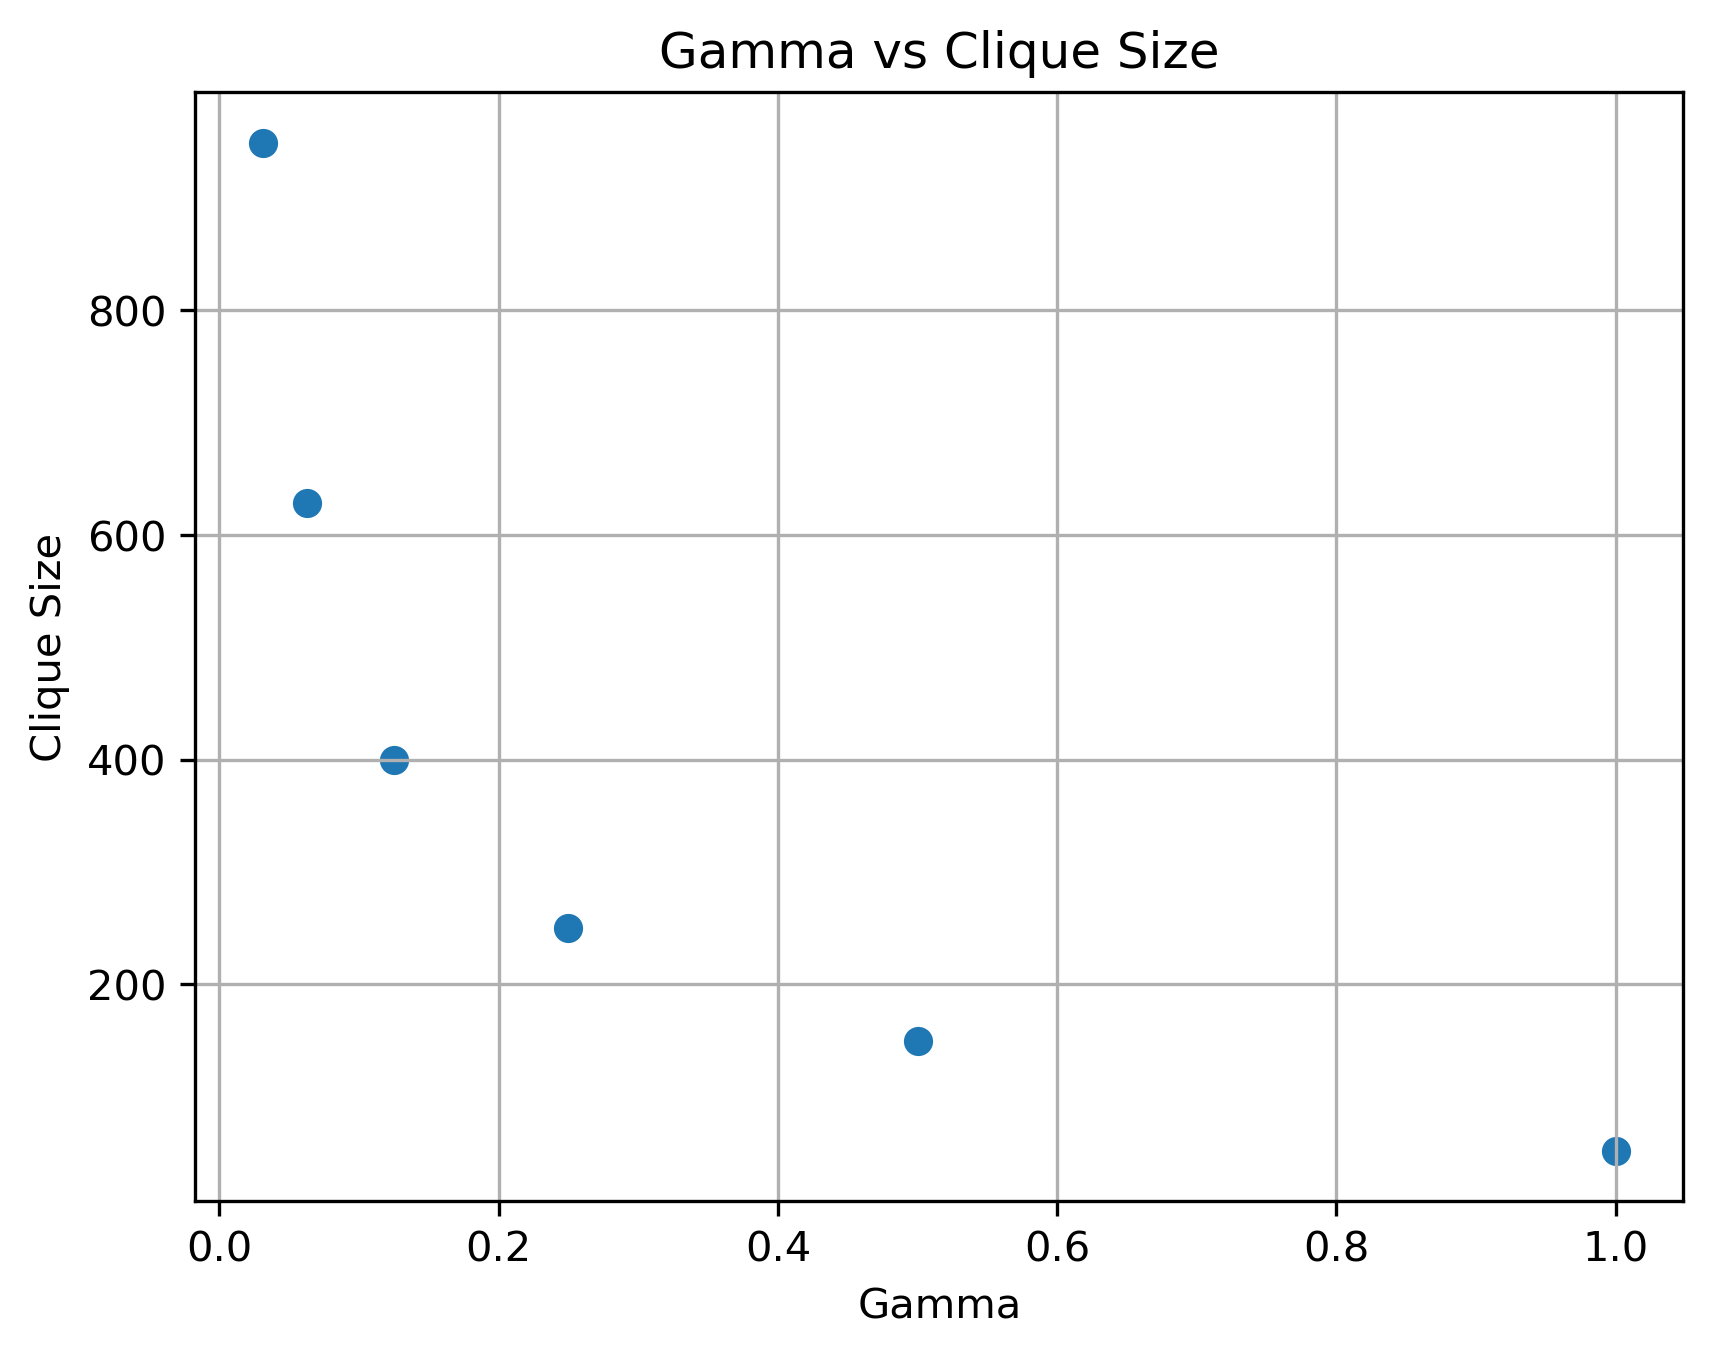
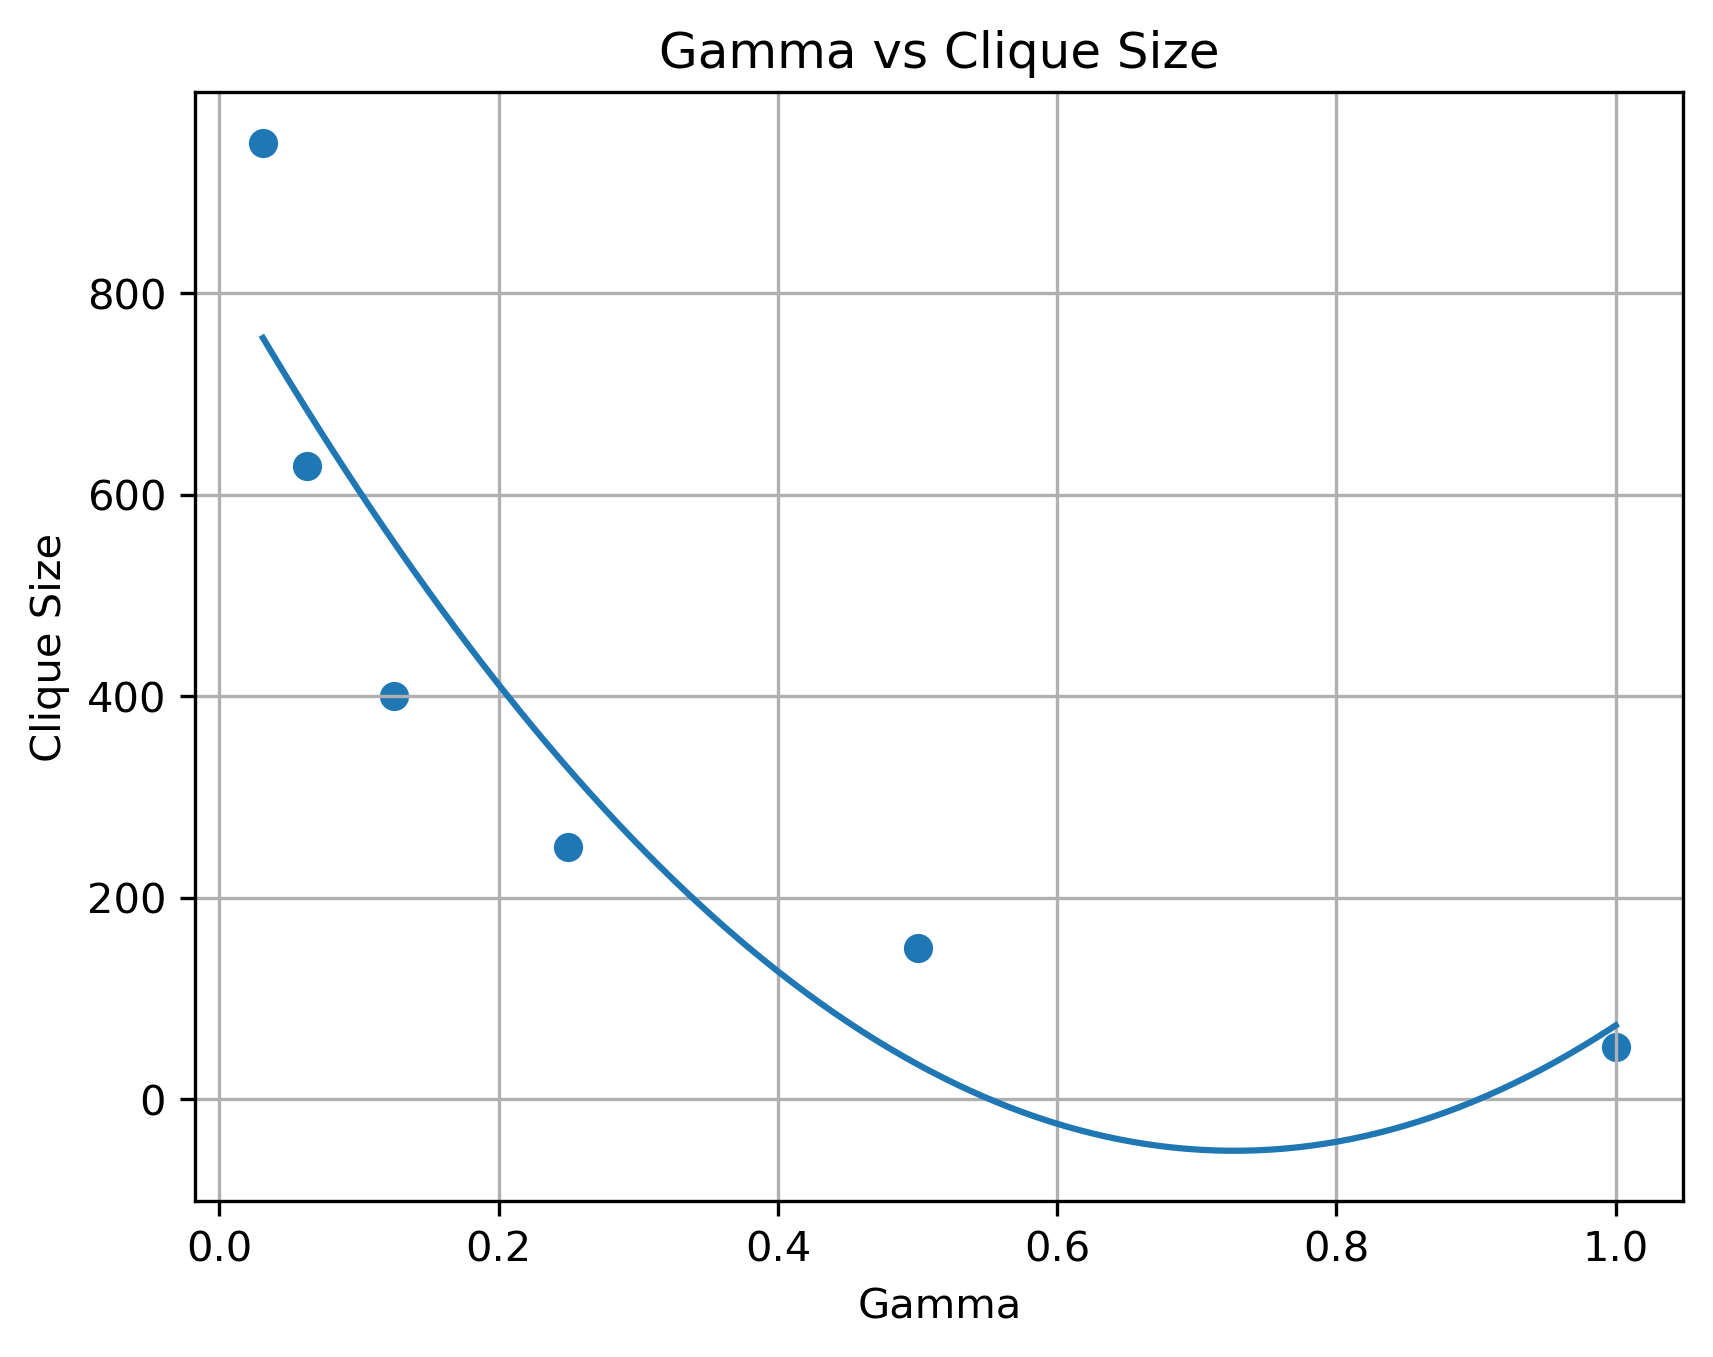
best fit line degree 2

diff --git a/plot.py b/plot.py
@@ -26,4 +26,9 @@ plt.ylabel("Clique Size")
 plt.title("Gamma vs Clique Size")
 plt.grid(True)
 
+coeffs = np.polyfit(x, y, 2)
+x_fit = np.linspace(x.min(), x.max(), 200)
+y_fit = np.polyval(coeffs, x_fit)
+plt.plot(x_fit, y_fit)
+
 plt.savefig("gamma_cliquesize.png", dpi=300, bbox_inches="tight")
